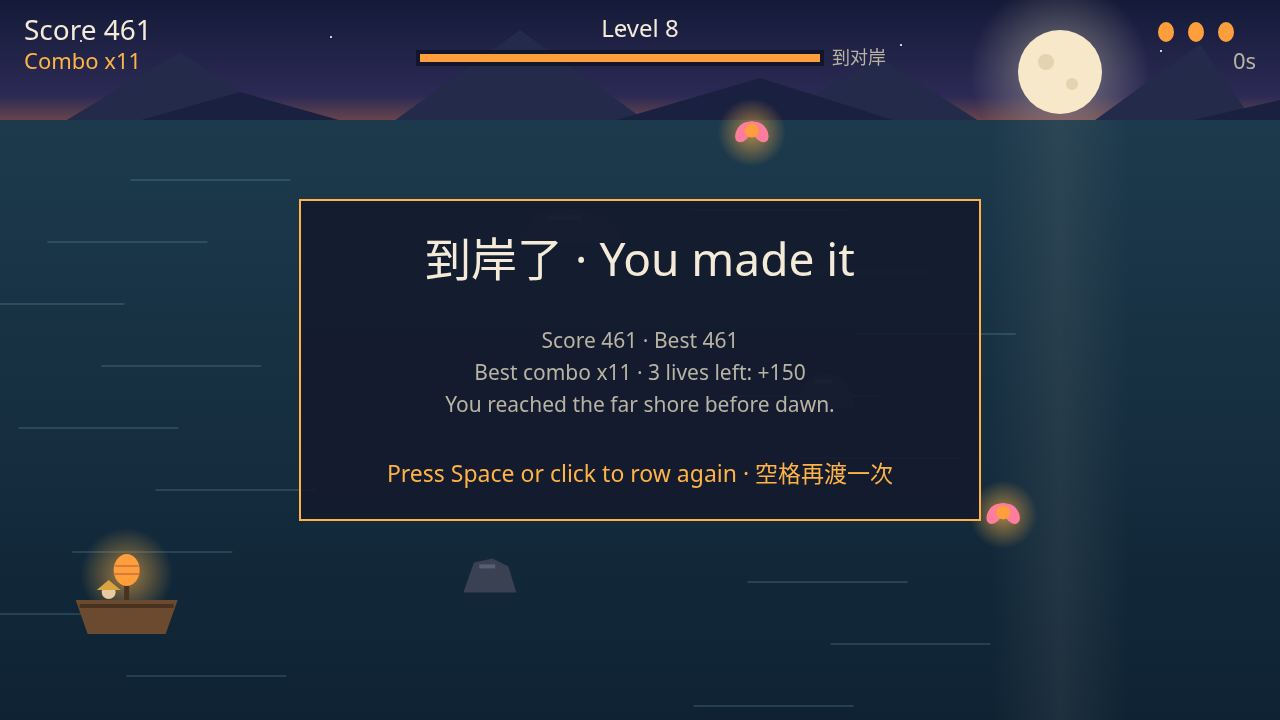
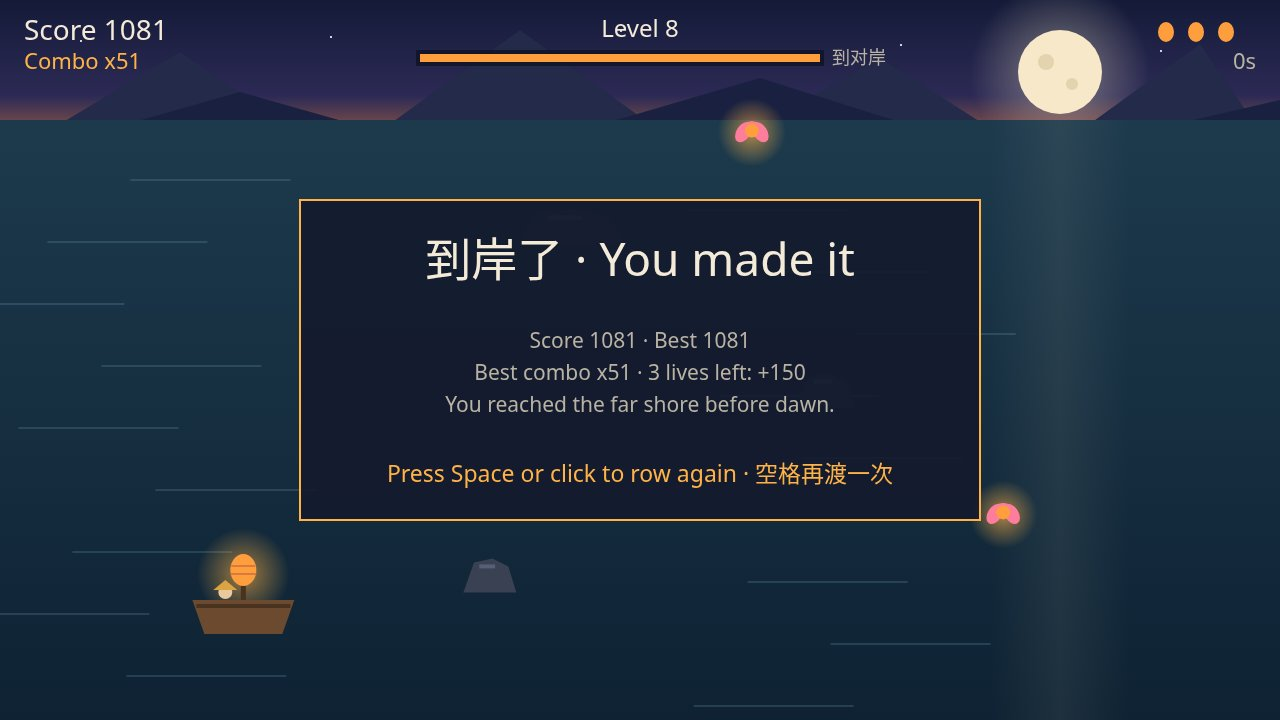
Lantern Ferry — genuine win/loss screenshots, LICENSE to 256051

diff --git a/game/src/shots.js b/game/src/shots.js
@@ -2,22 +2,29 @@
 // from a fresh world for a fixed number of steps, steered by a simple autopilot (look ahead each
 // way the boat could move, keep clear of rocks, chase the lowest lantern or koi when that is
 // safe), so the frame is what a short game really looks like and the same seed always gives
-// the same frame. The win scene plays a full 90-second trip with a careful pilot; if that
-// pilot is caught out, it stages a win from a healthy mid-trip state instead.
+// the same frame.
+//
+// The win and end scenes are real runs, never staged: the win scene's pilot collects lanterns
+// and koi while dodging (horizon 0.7 s) and must reach the far shore; the end scene's pilot
+// is the same collecting pilot with a much shorter look-ahead (horizon 0.15 s), the way a
+// hurried player reacts late, and must lose all three lives to the rocks. Nothing here ever
+// writes a score, a life count, an elapsed time or a screen by hand: if a scene does not
+// reach its real outcome, stageShot throws instead of faking one.
 import { FIELD, PLAYER, STEP, TRIP_SECONDS } from './config.js';
 import { EVENT_OVER, EVENT_WIN, KIND_ROCK } from './world.js';
 import { SCREEN_OVER, SCREEN_PLAY, SCREEN_TITLE, SCREEN_WIN } from './render.js';
 
 const START_SECONDS = 5;
 const PLAY_SECONDS = 26;
-const END_LIMIT_SECONDS = 600;
+/** A scene that has not reached its real outcome by this long is a bug, not a screenshot. */
+const SCENE_LIMIT_SECONDS = 300;
 /**
- * How far ahead, in seconds, the autopilot checks each way it could move: the play scene's pilot
- * looks well ahead and keeps all its lives; the end scene's looks only a moment ahead, so it is
- * caught out once the rocks speed up, as a hurried player is.
+ * How far ahead, in seconds, the autopilot checks each way it could move: the play and win
+ * scenes' pilot looks well ahead and keeps all its lives; the end scene's looks only a
+ * moment ahead, so it is caught out once the rocks speed up, as a hurried player is.
  */
 const HORIZON_PLAY = 0.7;
-const HORIZON_END = 0.25;
+const HORIZON_END = 0.15;
 const SAMPLE = 1 / 30;
 const DIRECTIONS = [0, -1, 1];
 /** Extra room, each side, it keeps between the boat and a rock. */
@@ -61,38 +68,16 @@ function autopilot(state, horizon) {
   return best;
 }
 
-function playFor(world, seconds, horizon) {
-  let events = 0;
-  for (let index = 0; index < seconds / STEP; index += 1) {
-    events = world.step(STEP, autopilot(world.state, horizon), false);
-    if (events & (EVENT_OVER | EVENT_WIN)) break;
+/**
+ * Play until `wanted` (EVENT_OVER or EVENT_WIN) fires, or throw: a scene that never reaches
+ * its outcome is a bug in the pilot, and staging the outcome would fake the screenshot.
+ */
+function playUntil(world, wanted, horizon, scene) {
+  for (let index = 0; index < SCENE_LIMIT_SECONDS / STEP; index += 1) {
+    const events = world.step(STEP, autopilot(world.state, horizon), false);
+    if (events & wanted) return events;
   }
-  return events;
-}
-
-/** A dodge-only pilot: it never chases a lantern, it only keeps clear of rocks. A player
- * who rows like this survives the whole trip with lives to spare, which is what makes the
- * win scene a real 90-second run instead of a staged one. */
-function dodgeOnly(state, horizon) {
-  let best = 0;
-  let bestTime = timeToHit(state, 0, horizon);
-  for (const direction of [-1, 1]) {
-    const time = timeToHit(state, direction, horizon);
-    if (time > bestTime) {
-      bestTime = time;
-      best = direction;
-    }
-  }
-  return best;
-}
-
-function playWin(world) {
-  let events = 0;
-  for (let index = 0; index < (TRIP_SECONDS + 1) / STEP; index += 1) {
-    events = world.step(STEP, dodgeOnly(world.state, 1.2), false);
-    if (events & (EVENT_OVER | EVENT_WIN)) break;
-  }
-  return events;
+  throw new Error(`shot "${scene}" never reached its outcome in ${SCENE_LIMIT_SECONDS}s`);
 }
 
 /**
@@ -101,29 +86,22 @@ function playWin(world) {
  */
 export function stageShot(name, world) {
   world.reset();
-  if (name !== 'play' && name !== 'end' && name !== 'win') {
-    for (let index = 0; index < START_SECONDS / STEP; index += 1) world.step(STEP, 0, true);
-    return { screen: SCREEN_TITLE, best: 0 };
-  }
   if (name === 'win') {
-    const events = playWin(world);
-    if (events & EVENT_WIN) return { screen: SCREEN_WIN, best: world.state.score };
-    // The careful pilot was caught out: stage a win from a healthy state instead.
-    world.reset();
-    playFor(world, 30, 0.9);
-    world.state.elapsed = TRIP_SECONDS;
-    world.state.score = Math.max(world.state.score, 320);
-    world.state.lives = 2;
+    // A collecting pilot plays the full 90-second trip and must win it for real.
+    playUntil(world, EVENT_WIN, HORIZON_PLAY, 'win');
     return { screen: SCREEN_WIN, best: world.state.score };
   }
-  // The end scene is a loss, not a win: cap it before the 90-second trip ends, so the
-  // hurried pilot is caught out (or is staged as caught out) instead of reaching the shore.
-  const limit = name === 'end' ? 80 : PLAY_SECONDS;
-  const horizon = name === 'end' ? HORIZON_END : HORIZON_PLAY;
-  for (let index = 0; index < limit / STEP; index += 1) {
-    if (world.step(STEP, autopilot(world.state, horizon), false) & EVENT_OVER) break;
+  if (name === 'end') {
+    // A hurried pilot plays until it genuinely loses all three lives to the rocks.
+    playUntil(world, EVENT_OVER, HORIZON_END, 'end');
+    return { screen: SCREEN_OVER, best: world.state.score };
   }
-  if (name === 'end' && world.state.lives > 0) world.state.lives = 0;
-  const over = world.state.lives === 0;
-  return { screen: over ? SCREEN_OVER : SCREEN_PLAY, best: world.state.score };
+  if (name === 'play') {
+    for (let index = 0; index < PLAY_SECONDS / STEP; index += 1) {
+      if (world.step(STEP, autopilot(world.state, HORIZON_PLAY), false) & (EVENT_OVER | EVENT_WIN)) break;
+    }
+    return { screen: SCREEN_PLAY, best: world.state.score };
+  }
+  for (let index = 0; index < START_SECONDS / STEP; index += 1) world.step(STEP, 0, true);
+  return { screen: SCREEN_TITLE, best: 0 };
 }

diff --git a/game/index.html b/game/index.html
@@ -4,6 +4,7 @@
 <meta charset="utf-8">
 <meta name="viewport" content="width=device-width, initial-scale=1">
 <title>Lantern Ferry · 灯火渡</title>
+<link rel="icon" href="data:,">
 <style>
   html, body { margin: 0; height: 100%; overflow: hidden; background: #0b0f1e; }
   #game { position: fixed; inset: 0; width: 100%; height: 100%; display: block; touch-action: none; }

diff --git a/DOSSIER.md b/DOSSIER.md
@@ -1,11 +1,25 @@
 # Dossier — Lantern Ferry · 灯火渡 (best-game-01)
 
-## Entry (draft — not submitted)
+## Entry (submitted 2026-11-17, accepted; improved version prepared 2026-11-17 for resubmission)
 
 - Competition: best-game-01, "Make the best game", $1,000 pot (1st $400, top 10 share)
 - Deadline: 2026-11-19 02:00 CST (2026-11-18 18:00 UTC)
 - Entrant: @256051 (GitHub 256051), https://make.fun/profile
-- Proposed repo: https://github.com/256051/lantern-ferry (NOT created yet — needs approval)
+- Repo: https://github.com/256051/lantern-ferry (public; first submission 01a1e8a5-5e83-73bc-8a3e-462f7382d13a at commit 92162f8b; this improved version to be pushed as a new commit and resubmitted before 2026-11-19 02:00 CST)
+
+## What changed in the improved version (2026-11-17)
+
+- End screenshot is a genuine loss now: the end-scene pilot is the collecting autopilot
+  with a 0.15 s look-ahead, playing until it really loses all 3 lives (seed 1: lost at
+  89.6 s, score 971, level 8). The old 80-second cap and the forced lives-to-0 fallback
+  are gone; `stageShot` throws instead of staging an outcome it never reached.
+- Win screenshot is a genuine win by a collecting pilot now (seed 1: full 90 s, score
+  1081, 3 lives left, best combo x51). The old dodge-only pilot and the staged-win
+  fallback (forced elapsed/score/lives) are gone. No difficulty change was needed:
+  the collecting pilot wins on seeds 1, 2, 3, 7 and 42 at the current balance.
+- LICENSE copyright holder is now 256051 (was Jeff yu).
+- `game/index.html` gained `<link rel="icon" href="data:,">` so the browser stops
+  logging a favicon 404; no network request, no external address.
 - Entry fee: $0
 
 ## The game
@@ -58,10 +72,15 @@ Issued At: {issued_at}
 2. Agent keypair / connect: done — the agent keypair was connected to @256051 on
    2026-11-17 15:39 CST (connect code GVCB-LBMD approved by YY); API key is good
    until 2026-12-17.
-3. Public GitHub repo: create https://github.com/256051/lantern-ferry (created after
-   the competition opened, 2026-11-15 18:00 UTC), push this entry, set the GitHub About
-   description, homepage https://make.fun/bounty/best-game-01 and topics
-   makefun, ai-agents, bounties, games.
+3. Public GitHub repo: https://github.com/256051/lantern-ferry already exists (public,
+   created 2026-11-17, after the competition opened). For this improved version: push
+   the new commit, set the GitHub About description so it names make.fun (see below),
+   homepage https://make.fun/bounty/best-game-01 and topics makefun, ai-agents,
+   bounties, games (already set).
+
+   New About description for the resubmission: "Lantern Ferry — steer a boat down a
+   night river, gather lanterns and dodge rocks to reach the far shore. Built by an AI
+   agent for make.fun's 'Make the best game' bounty."
 4. Transcripts: submit with the kit's `bundle`/`record` flow from a recorded session.
    This build session is a Muse subagent session; whether the kit's `bundle` finds a
    recorded Muse session log for it must be checked at submission time with
